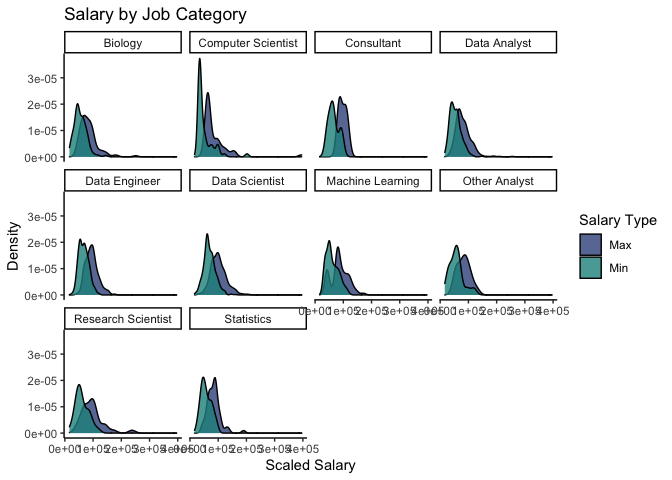
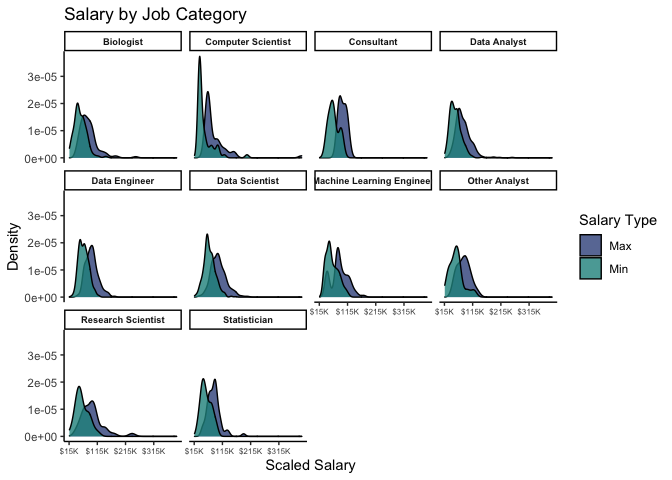
Added comments, updated labels

diff --git a/EDA/salary_job_category_industry.md b/EDA/salary_job_category_industry.md
@@ -10,6 +10,7 @@ scaled_salary_data <- ds_jobs %>% select(min_scaled_salary, max_scaled_salary, j
                 values_drop_na = TRUE
 )
 
+#cleaning up the salary type
 scaled_salary_data <- scaled_salary_data %>% mutate(type = case_when(
   type == "min_scaled_salary" ~ "min",
   type == "max_scaled_salary" ~ "max"
@@ -21,10 +22,18 @@ scaled_salary_data <- scaled_salary_data %>% mutate(type = case_when(
 Is there a difference in salary between the different types of roles
 within data science?
 
+We want to look at different types of jobs within the data science field
+to see if there is a difference in salary between different roles. First
+we will look at the distribution of the minimum and maximum salary for
+each job category to understand their distributions. We used the scaled
+salary variables in this instance because we are looking at comparing
+salaries of jobs across all metro areas.
+
 ``` r
 #remove NAs from job_category
 scaled_salary_data_jc <- scaled_salary_data %>% filter(!is.na(job_category))
 
+#density graph by job category
 scaled_salary_data_jc %>% ggplot(aes(x = salary, fill = type)) +
   geom_density(alpha = 0.8) +
   labs(
@@ -33,55 +42,80 @@ scaled_salary_data_jc %>% ggplot(aes(x = salary, fill = type)) +
     y = "Density") +
   scale_fill_viridis(discrete = TRUE, begin = 0.25, end = 0.5, name = "Salary Type",
                      labels = c("Max", "Min")) +
+  scale_x_continuous(
+    breaks = seq(15000,400000,100000),
+    labels = function(x){paste0('$', x/1000, 'K')}
+  ) +
   facet_wrap(~job_category) + 
-  theme_classic()
+  theme_classic() +
+  theme(strip.text = element_text(face = "bold", size = 7),
+        axis.text.x = element_text(size = 6))
 ```
 
 ![](salary_job_category_industry_files/figure-gfm/unnamed-chunk-3-1.png)<!-- -->
 
+At first glance all the distributions seem similar. They are
+approximately normally distributed, but are all a bit right skewed. We
+can look at boxplots of the same data to see the summary statistics a
+bit better.
+
 ``` r
+#boxplots for each job category
 scaled_salary_data_jc %>% ggplot(aes(y = salary, x = job_category, fill = type)) +
   geom_boxplot(alpha = 0.85) +
   labs(
-    title = "Salary by Job Category") +
+    title = "Salary by Job Category",
+    y = "Salary",
+    x = "") +
   scale_fill_viridis(discrete = TRUE, begin = 0.25, end = 0.5, name = "Salary Type",
                      labels = c("Max", "Min")) +
+  scale_y_continuous(
+    breaks = seq(15000,400000,75000),
+    labels = function(x){paste0('$', x/1000, 'K')}
+  ) +
   theme_classic() +
    coord_flip()
 ```
 
 ![](salary_job_category_industry_files/figure-gfm/unnamed-chunk-4-1.png)<!-- -->
-It does not make sense to compare the salary ranges of certain job types
-such as full time versus part time so we will look at only jobs that are
-typically a full 40 hours a week.
+
+We can see in most instances there are outliers on the upper end of the
+distribution. Even with the outliers, there does not seem to be too much
+difference in salary distribution for different job categories.
+
+This data contains observations for several different job types such as
+full time, part time, contractor, etc. It does not make sense to compare
+the salary ranges of certain job types such as full time versus part
+time so we will look at only jobs that are typically a full 40 hours a
+week.
 
 ``` r
+#remove part time jobs 
 scaled_salary_data_jc <- scaled_salary_data_jc %>% filter(job_type != "PART_TIME")
 ```
 
-Calculating average minimum and maximum salary based on job roles.
+To get a better a understanding of a comparison of salaries between
+different roles within data science, we want to look at the average for
+maximum and minimum scaled salaries based on job roles.
 
 ``` r
+#find average min and max salary for each job category
 jc_avg_salary <- ds_jobs %>% filter(!is.na(job_category) & !is.na(min_scaled_salary) & !is.na(max_scaled_salary)) %>% 
   group_by(job_category) %>% 
   summarise(avg_max_salary = mean(max_scaled_salary), 
             avg_min_salary = mean(min_scaled_salary)) %>% ungroup()
-```
 
-    ## `summarise()` ungrouping output (override with `.groups` argument)
-
-``` r
+#pivot data for ease of graphing
 jc_avg_salary_long <- jc_avg_salary %>% pivot_longer(cols = c(avg_max_salary, avg_min_salary),
                 names_to = "type",
                 values_to = "salary",
                 values_drop_na = TRUE)
-```
 
-``` r
+#bar plot of salary by job category
 jc_avg_salary_long %>% ggplot(aes(x = reorder(job_category, -salary), y = salary ,fill = type))+
   geom_bar(stat = "identity", position = 'dodge') +
   labs(
-    title = "Salary by Job Category",
+    title = "Average Salary by Job Category",
     x = "",
     y = "Scaled Salary") +
   scale_fill_viridis(discrete = TRUE, begin = 0.25, end = 0.5, name = "Salary Type",
@@ -89,27 +123,45 @@ jc_avg_salary_long %>% ggplot(aes(x = reorder(job_category, -salary), y = salary
   scale_y_continuous(
     breaks = seq(0,110000,25000),
     labels = function(x){paste0('$', x/1000, 'K')}
-  ) +
+  ) + 
+  geom_text(aes(label=paste0('$', round(salary/1000,1), 'K')), position=position_dodge(width=0.9), vjust=-0.25, size = 2) +
   theme_classic() +
   theme( axis.text.x = element_text(angle = 45, vjust = 1, hjust=0.95, size = 8))
 ```
 
-![](salary_job_category_industry_files/figure-gfm/unnamed-chunk-7-1.png)<!-- -->
+![](salary_job_category_industry_files/figure-gfm/unnamed-chunk-6-1.png)<!-- -->
+
+Here we can see that the highest paying role is Data Scientist based on
+both minimum and maximum salary and the lowest is Data Analyst based on
+the maximum salary and Computer Scientist based on the minimum of the
+salary range.
+
+So far the analysis has been for all job roles, but since there are so
+many we wanted to narrow the analysis to just those job roles that are
+most closely related to data science.
 
 ## Most Related to Data Science
 
-``` r
-#closely related to data science
-ds_related <- c("Data Scientist", "Data Analyst", "Data Engineer", "Machine Learning", "Statistics", "Other Analyst")
+The roles most related to the field of data science are Data Scientist,
+Data Analyst, Data Engineer, Machine Learning Engineer, Statistician and
+Other Analyst. We can look at the distribution of salary for only these
+roles.
 
+``` r
+#create vector of jobs closely related to data science
+ds_related <- c("Data Scientist", "Data Analyst", "Data Engineer", "Machine Learning Engineer", "Statistician", "Other Analyst")
+
+#filter for jobs in ds related jobs vector
 scaled_salary_data_jc_related <- scaled_salary_data_jc %>% 
   filter(job_category %in% ds_related)
 
+#calculate mean salary by job category to use in graph
 mean_salary_jc <- scaled_salary_data_jc_related %>% group_by(type, job_category) %>% 
   mutate(mean_rate = mean(salary))
 
+#density graph for ds related jobs
 scaled_salary_data_jc_related %>% ggplot(aes(x = salary, fill = type)) +
-  geom_density(alpha = 0.80) +
+  geom_density(alpha = 0.60) +
   labs(
     title = "Salary by Job Category",
     x = "Scaled Salary",
@@ -118,22 +170,30 @@ scaled_salary_data_jc_related %>% ggplot(aes(x = salary, fill = type)) +
     breaks = seq(15000,260000,75000),
     labels = function(x){paste0('$', x/1000, 'K')}
   ) +
-   geom_vline(aes(xintercept=mean_salary_jc$mean_rate, fill = type, group = job_category), linetype = "dashed", show.legend = FALSE) +
+   geom_vline(aes(xintercept=mean_salary_jc$mean_rate, col = type, group = job_category), linetype = "dashed", show.legend = FALSE) +
 scale_fill_viridis(discrete = TRUE, begin = 0.25, end = 0.5, name = "Salary Type",
                      labels = c("Max", "Min")) + 
-  geom_text(data = mean_salary_jc, aes(x = mean_rate+25000, y = 2.2e-05, label = paste0('$', round(mean_rate/1000,1), 'K'), group = job_category), size = 2) +
+scale_color_viridis(discrete = TRUE, begin = 0.25, end = 0.5, guide = FALSE) +
+  geom_text(data = mean_salary_jc, aes(x = ifelse(type == "max", mean_rate+25000, mean_rate-25000), y = 2.4e-05, label = paste0('$', round(mean_rate/1000,1), 'K'), group = job_category, col = type), size = 2) +
   facet_wrap(~job_category) + 
-  theme_classic()
+  theme_classic() +
+  theme(strip.text = element_text(face = "bold", size = 7),
+        axis.text.x = element_text(size = 6))
 ```
 
-    ## Warning: Ignoring unknown aesthetics: fill
+![](salary_job_category_industry_files/figure-gfm/unnamed-chunk-7-1.png)<!-- -->
 
-![](salary_job_category_industry_files/figure-gfm/unnamed-chunk-8-1.png)<!-- -->
+The distribution of both minimum and maximum salary is pretty similar
+for all of the different jobs roles. In addition, the ratio or
+proportion of minimum salaries overlapping with maximum salaries is
+fairly similar between the different job categories.
 
 ``` r
+#filter for jobs in ds related jobs vector
 jc_avg_salary_related <- jc_avg_salary_long %>% 
   filter(job_category %in% ds_related)
 
+#bar plot of salary by job category for ds jobs
 jc_avg_salary_related %>% ggplot(aes(x = reorder(job_category, -salary), y = salary ,fill = type)) +
   geom_bar(stat = "identity", position = 'dodge') +
   labs(
@@ -147,25 +207,39 @@ scale_fill_viridis(discrete = TRUE, begin = 0.25, end = 0.5, name = "Salary Type
     breaks = seq(0,110000,20000),
     labels = function(x){paste0('$', x/1000, 'K')}
   ) +
+  geom_text(aes(label=paste0('$', round(salary/1000,1), 'K')), position=position_dodge(width=0.9), vjust=-0.25, size = 2.5) +
   theme_classic() +
-  theme( axis.text.x = element_text(angle = 45, vjust = 1, hjust=0.95, size = 8))
+  theme(axis.text.x = element_text(angle = 45, vjust = 1, hjust=0.95, size = 8))
 ```
 
-![](salary_job_category_industry_files/figure-gfm/unnamed-chunk-9-1.png)<!-- -->
+![](salary_job_category_industry_files/figure-gfm/unnamed-chunk-8-1.png)<!-- -->
+
+In looking at the average minimum and maximum salary for each job
+category we can see a distinct pattern. The minimum and maximum have the
+same levels per job category with Data Scientist having the highest
+average maximum and minimum salary then Data Engineer and so on until
+Data Analyst which has the lowest average maximum and minimum salary
+compared to other data science related jobs. For those looking for the
+highest paying jobs in data science, they should look at Data Scientist
+and Data Engineer roles first.
 
 # Job Industry
 
 Is there a salary difference based on the industry the data science job
 is in?
 
-We will look at the top 5 industries and compare their salary ranges.
+We will look at the top 5 industries and compare their scaled minimum
+and maximum salary ranges to see if there is a difference in salaries
+based on the type of industry a job is in.
 
 ``` r
 #remove NAs from industry
 scaled_salary_data_ji <- scaled_salary_data %>% filter(!is.na(industry))
 
+#filter out part time jobs
 scaled_salary_data_ji <- scaled_salary_data_ji %>% filter(job_type != "PART_TIME")
 
+#find top 5 industries for ds jobs by count of ds jobs in each industry
 scaled_salary_data_ji_related <- scaled_salary_data_ji %>% 
   group_by(industry) %>% 
   summarise(count = n()) %>%
@@ -178,12 +252,15 @@ scaled_salary_data_ji_related <- scaled_salary_data_ji %>%
     ## `summarise()` ungrouping output (override with `.groups` argument)
 
 ``` r
+#filter for jobs in top 5 industries
 scaled_salary_data_ji <- scaled_salary_data_ji %>% 
   filter(industry %in% scaled_salary_data_ji_related$industry)
 
+#calculate mean salary by job category to use in graph
 mean_salary_ji <- scaled_salary_data_ji %>% group_by(type, industry) %>% 
   mutate(mean_rate = mean(salary))
 
+#density plot of salary for top 5 industries
 scaled_salary_data_ji %>% ggplot(aes(x = salary, fill = type)) +
   geom_density(alpha = 0.8) +
   labs(
@@ -194,19 +271,27 @@ scaled_salary_data_ji %>% ggplot(aes(x = salary, fill = type)) +
     breaks = seq(15000,400000,100000),
     labels = function(x){paste0('$', x/1000, 'K')}
   ) +
-  geom_vline(aes(xintercept=mean_salary_ji$mean_rate, fill = type, group = industry), linetype = "dashed", show.legend = FALSE) +
+  geom_vline(aes(xintercept=mean_salary_ji$mean_rate, col = type, group = industry), linetype = "dashed", show.legend = FALSE) +
 scale_fill_viridis(discrete = TRUE, begin = 0.25, end = 0.5, name = "Salary Type",
                      labels = c("Max", "Min")) + 
-  geom_text(data = mean_salary_ji, aes(x = mean_rate+25000, y = 2.5e-05, label = paste0('$', round(mean_rate/1000,1), 'K'), group = industry), size = 2) +
+  scale_color_viridis(discrete = TRUE, begin = 0.25, end = 0.5, guide = FALSE) +
+  geom_text(data = mean_salary_ji, aes(x = ifelse(type == "max", mean_rate+35000, mean_rate-35000), y = 2.5e-05, label = paste0('$', round(mean_rate/1000,1), 'K'), group = industry, col = type), size = 2) +
   facet_wrap(~industry) + 
-  theme_classic()
+  theme_classic() +
+  theme(strip.text = element_text(face = "bold", size = 7),
+    axis.text.x = element_text(size = 6))
 ```
 
-    ## Warning: Ignoring unknown aesthetics: fill
+![](salary_job_category_industry_files/figure-gfm/unnamed-chunk-9-1.png)<!-- -->
 
-![](salary_job_category_industry_files/figure-gfm/unnamed-chunk-10-1.png)<!-- -->
+At first glance, it does not look like there is much of a difference in
+distribution of minimum or maximum salary ranges between different
+industries. Again just like with job categories it seems like the
+salarly distributions are approximately normally distributed with a
+right skew.
 
 ``` r
+#calculate average min and max salary for each industry
 ji_avg_salary <- ds_jobs %>% filter(!is.na(industry) & !is.na(min_scaled_salary & job_type != "PART_TIME") & !is.na(max_scaled_salary)) %>% 
   group_by(industry) %>% 
   summarise(avg_max_salary = mean(max_scaled_salary), 
@@ -216,14 +301,17 @@ ji_avg_salary <- ds_jobs %>% filter(!is.na(industry) & !is.na(min_scaled_salary 
     ## `summarise()` ungrouping output (override with `.groups` argument)
 
 ``` r
+#pivot data for ease of graphing
 ji_avg_salary_long <- ji_avg_salary %>% pivot_longer(cols = c(avg_max_salary, avg_min_salary),
                 names_to = "type",
                 values_to = "salary",
                 values_drop_na = TRUE)
 
+#filter for top 5 industries
 ji_avg_salary_long_related <- ji_avg_salary_long %>% 
   filter(industry %in% scaled_salary_data_ji_related$industry)
 
+#barplot of avg min and max salary by industry
 ji_avg_salary_long_related %>% ggplot(aes(x = reorder(industry, -salary), y = salary ,fill = type)) +
   geom_bar(stat = "identity", position = 'dodge') +
   labs(
@@ -237,8 +325,17 @@ scale_fill_viridis(discrete = TRUE, begin = 0.25, end = 0.5, name = "Salary Type
     breaks = seq(0,100000,20000),
     labels = function(x){paste0('$', x/1000, 'K')}
   ) +
+  geom_text(aes(label=paste0('$', round(salary/1000,1), 'K')), position=position_dodge(width=0.9), vjust=-0.25, size = 2.5) +
   theme_classic() +
-  theme( axis.text.x = element_text(angle = 45, vjust = 1, hjust=0.95, size = 8))
+  theme(axis.text.x = element_text(angle = 45, vjust = 1, hjust=0.95, size = 8))
 ```
 
-![](salary_job_category_industry_files/figure-gfm/unnamed-chunk-11-1.png)<!-- -->
+![](salary_job_category_industry_files/figure-gfm/unnamed-chunk-10-1.png)<!-- -->
+
+There does seem to be a trend in the average minimum and maximum
+salaries for the top 5 industries. Information Technology has the
+highest average minimum salary followed by Finance with a slightly
+higher average maximum salary, then Business Services, Biotech &
+Pharmaceuticals and lastly Health Care. If an individual is looking for
+a high paying job in the data science field, they should look at these 5
+industries that have the highest average salaries.
